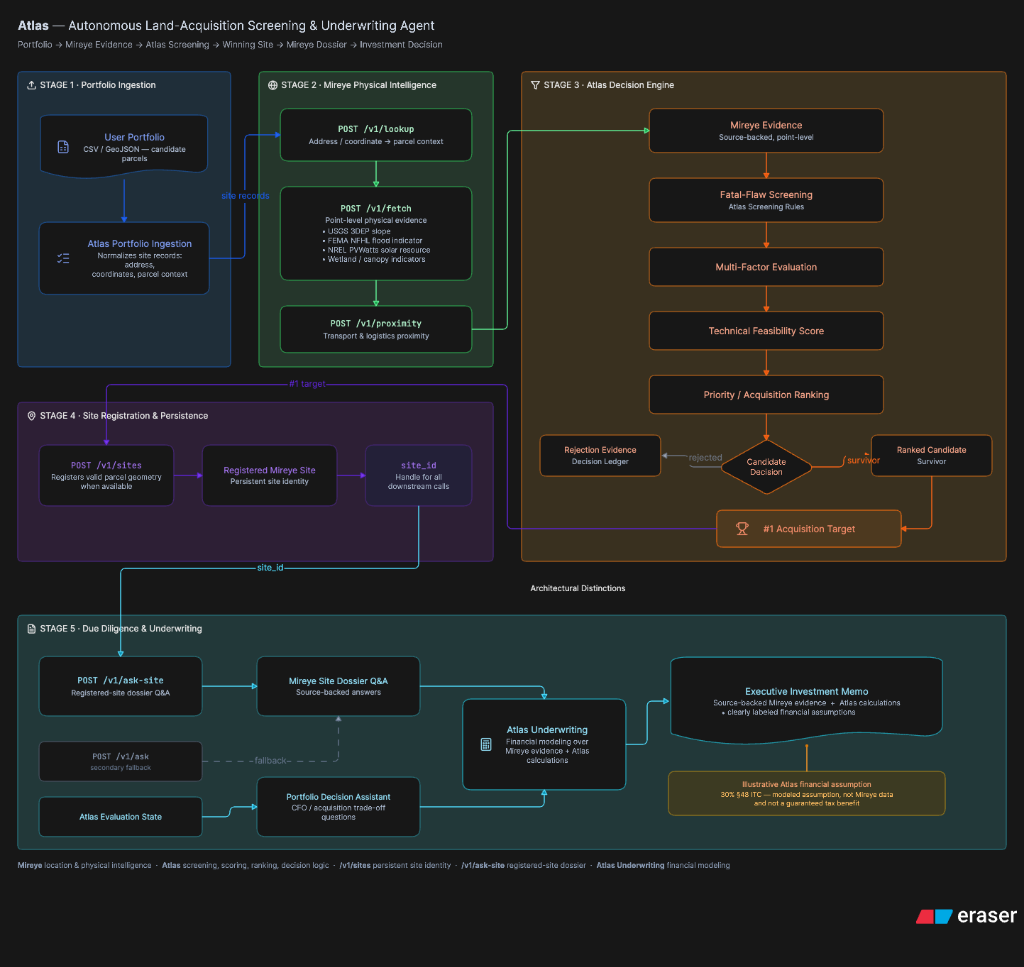
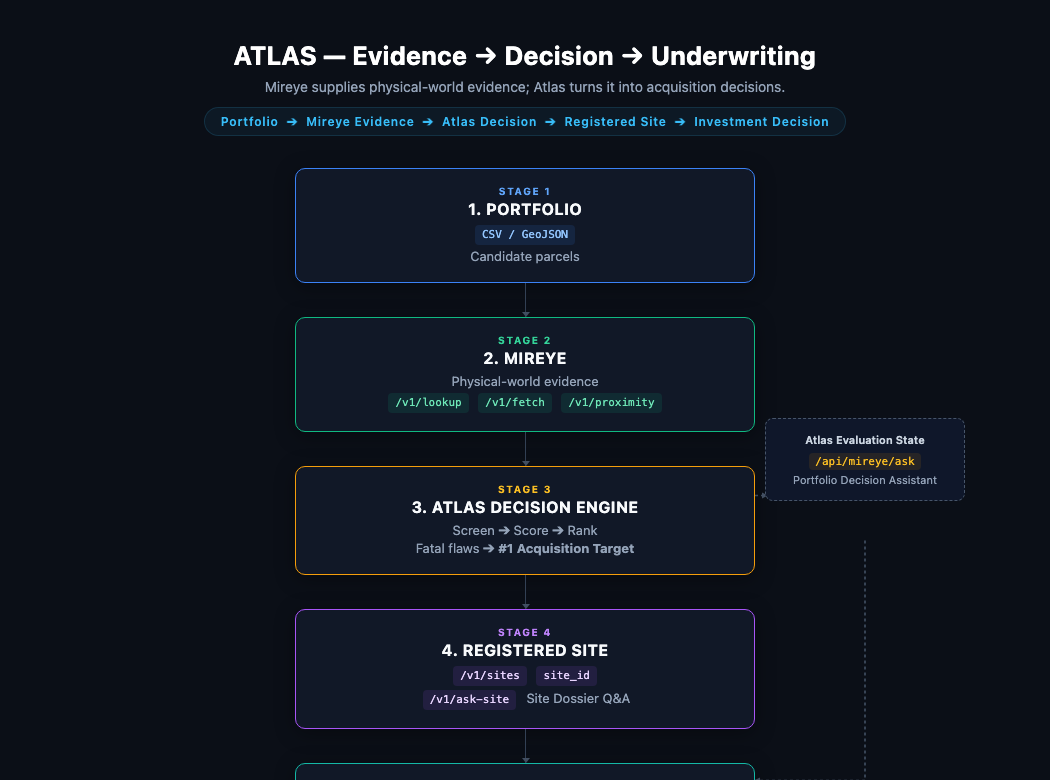
docs: update system architecture diagram and mermaid flowchart to compact 5-box flow

diff --git a/README.md b/README.md
@@ -35,76 +35,50 @@ Atlas automates the end-to-end site screening and underwriting workflow:
 
 ---
 
-## System Architecture & How It Works
+## ATLAS — Evidence → Decision → Underwriting
 
-![Atlas AI End-to-End System Architecture Diagram](public/images/00_atlas_architecture_diagram.png)
+*Mireye supplies physical-world evidence; Atlas turns it into acquisition decisions.*
 
-*Mireye provides physical-world evidence; Atlas turns that evidence into acquisition decisions and underwriting.*
-
-### Core Pipeline Sequence
-$$\text{Portfolio Ingestion} \longrightarrow \text{Mireye Physical Intelligence} \longrightarrow \text{Atlas Decision Engine} \longrightarrow \text{Site Registration} \longrightarrow \text{Due Diligence and Underwriting}$$
+![Atlas System Architecture Diagram](public/images/00_atlas_architecture_diagram.png)
 
 ```mermaid
 flowchart TD
-    classDef stage1 fill:#1e293b,stroke:#3b82f6,stroke-width:2px,color:#fff;
-    classDef stage2 fill:#14532d,stroke:#22c55e,stroke-width:2px,color:#fff;
-    classDef stage3 fill:#78350f,stroke:#f59e0b,stroke-width:2px,color:#fff;
-    classDef stage4 fill:#581c87,stroke:#a855f7,stroke-width:2px,color:#fff;
-    classDef stage5 fill:#134e4a,stroke:#14b8a6,stroke-width:2px,color:#fff;
+    classDef box1 fill:#111827,stroke:#3b82f6,stroke-width:2px,color:#f8fafc;
+    classDef box2 fill:#111827,stroke:#10b981,stroke-width:2px,color:#f8fafc;
+    classDef box3 fill:#111827,stroke:#f59e0b,stroke-width:2px,color:#f8fafc;
+    classDef box4 fill:#111827,stroke:#a855f7,stroke-width:2px,color:#f8fafc;
+    classDef box5 fill:#111827,stroke:#14b8a6,stroke-width:2px,color:#f8fafc;
+    classDef side fill:#0f172a,stroke:#475569,stroke-width:1px,stroke-dasharray: 3 3,color:#e2e8f0;
 
-    subgraph STAGE1["STAGE 1 · Portfolio Ingestion"]
-        UP["User Portfolio<br/>(CSV / GeoJSON candidate parcels)"] --> API["Atlas Portfolio Ingestion<br/>(Normalizes site records:<br/>address, coordinates, parcel context)"]
-    end
+    P["1. PORTFOLIO<br/>CSV / GeoJSON<br/>Candidate parcels"]
+    M["2. MIREYE<br/>Physical-world evidence<br/>/v1/lookup • /v1/fetch • /v1/proximity"]
+    A["3. ATLAS DECISION ENGINE<br/>Screen ➔ Score ➔ Rank<br/>Fatal flaws ➔ #1 Acquisition Target"]
+    R["4. REGISTERED SITE<br/>/v1/sites • site_id<br/>/v1/ask-site (Site Dossier Q&A)"]
+    U["5. UNDERWRITING<br/>Evidence + Atlas calculations<br/>➔ Executive Investment Memo"]
 
-    subgraph STAGE2["STAGE 2 · Mireye Physical Intelligence"]
-        LOOKUP["POST /v1/lookup<br/>(Address / coordinate ➔ parcel context)"] --> FETCH["POST /v1/fetch<br/>(Point-level physical evidence:<br/>USGS 3DEP slope, FEMA NFHL flood indicator,<br/>NREL PVWatts solar, Wetland / canopy)"]
-        FETCH --> PROX["POST /v1/proximity<br/>(Transport & logistics proximity)"]
-    end
+    SIDE["Atlas Evaluation State<br/>/api/mireye/ask<br/>Portfolio Decision Assistant"]
 
-    subgraph STAGE3["STAGE 3 · Atlas Decision Engine"]
-        EVID["Mireye Evidence<br/>(Source-backed point-level)"] --> FFS["Fatal-Flaw Screening<br/>(Atlas Screening Rules)"]
-        FFS --> MFE["Multi-Factor Evaluation"]
-        MFE --> TFS["Technical Feasibility Score"]
-        TFS --> PAR["Priority / Acquisition Ranking"]
-        PAR --> DEC{"Candidate Decision"}
-        DEC -- "rejected" --> REJ["Rejection Evidence<br/>(Decision Ledger)"]
-        DEC -- "survivor" --> SURV["Ranked Candidate<br/>(Survivor)"]
-        SURV --> TARGET["#1 Acquisition Target"]
-    end
+    P --> M
+    M --> A
+    A --> R
+    R --> U
 
-    subgraph STAGE4["STAGE 4 · Site Registration & Persistence"]
-        SITES["POST /v1/sites<br/>(Registers valid parcel geometry)"] --> RMS["Registered Mireye Site<br/>(Persistent site identity)"]
-        RMS --> SID["site_id<br/>(Handle for downstream calls)"]
-    end
+    A -.- SIDE
+    SIDE -.- U
 
-    subgraph STAGE5["STAGE 5 · Due Diligence & Underwriting"]
-        ASKSITE["POST /v1/ask-site<br/>(Registered-site dossier Q&A)"] --> DOSSIER["Mireye Site Dossier Q&A<br/>(Source-backed answers)"]
-        ASK["POST /v1/ask<br/>(Secondary fallback)"] -. "fallback" .-> PDA["Portfolio Decision Assistant<br/>(CFO / acquisition trade-off questions)"]
-        EVAL["Atlas Evaluation State"] -.-> PDA
-        DOSSIER --> UW["Atlas Underwriting<br/>(Financial modeling over Mireye evidence + Atlas calculations)"]
-        PDA --> UW
-        UW --> MEMO["Executive Investment Memo<br/>(Source-backed Mireye evidence + Atlas calculations<br/>• clearly labeled financial assumptions)"]
-        MEMO --> ITC["Illustrative Atlas Financial Assumption<br/>(30% §48 ITC — modeled assumption,<br/>not Mireye data & not a guaranteed tax benefit)"]
-    end
-
-    API -- "site records" --> LOOKUP
-    PROX --> EVID
-    TARGET -- "#1 target" --> SITES
-    SID -- "site_id" --> ASKSITE
-
-    class STAGE1,UP,API stage1;
-    class STAGE2,LOOKUP,FETCH,PROX stage2;
-    class STAGE3,EVID,FFS,MFE,TFS,PAR,DEC,REJ,SURV,TARGET stage3;
-    class STAGE4,SITES,RMS,SID stage4;
-    class STAGE5,ASKSITE,DOSSIER,ASK,EVAL,PDA,UW,MEMO,ITC stage5;
+    class P box1;
+    class M box2;
+    class A box3;
+    class R box4;
+    class U box5;
+    class SIDE side;
 ```
 
-### Key Architectural Responsibilities
-* **Mireye**: Location & physical intelligence (`/v1/lookup`, `/v1/fetch`, `/v1/proximity`, `/v1/sites`, `/v1/ask-site`, `/v1/ask`).
-* **Atlas**: Screening, scoring, ranking, decision logic, and financial underwriting modeling.
-* **`/v1/sites`**: Persistent site identity registration.
-* **`/v1/ask-site`**: Registered-site dossier Q&A interface.
-* **Atlas Underwriting**: Financial modeling and investment committee memo generation.
+### Core Architecture Distinctions
+* **Portfolio ➔ Mireye Evidence ➔ Atlas Decision ➔ Registered Site ➔ Investment Decision**
+* **Registered-Site Path**: Mireye `POST /v1/sites` registers parcel polygon geometry (`site_id`); Mireye `POST /v1/ask-site` powers grounded Site Dossier Q&A.
+* **Portfolio Trade-Off Path**: Atlas Evaluation State routes through `/api/mireye/ask` for portfolio-wide decision assistance and trade-off queries.
+* **Underwriting**: Synthesizes physical Mireye evidence with Atlas financial calculations into an institutional investment committee memo.
 
 ---
 
